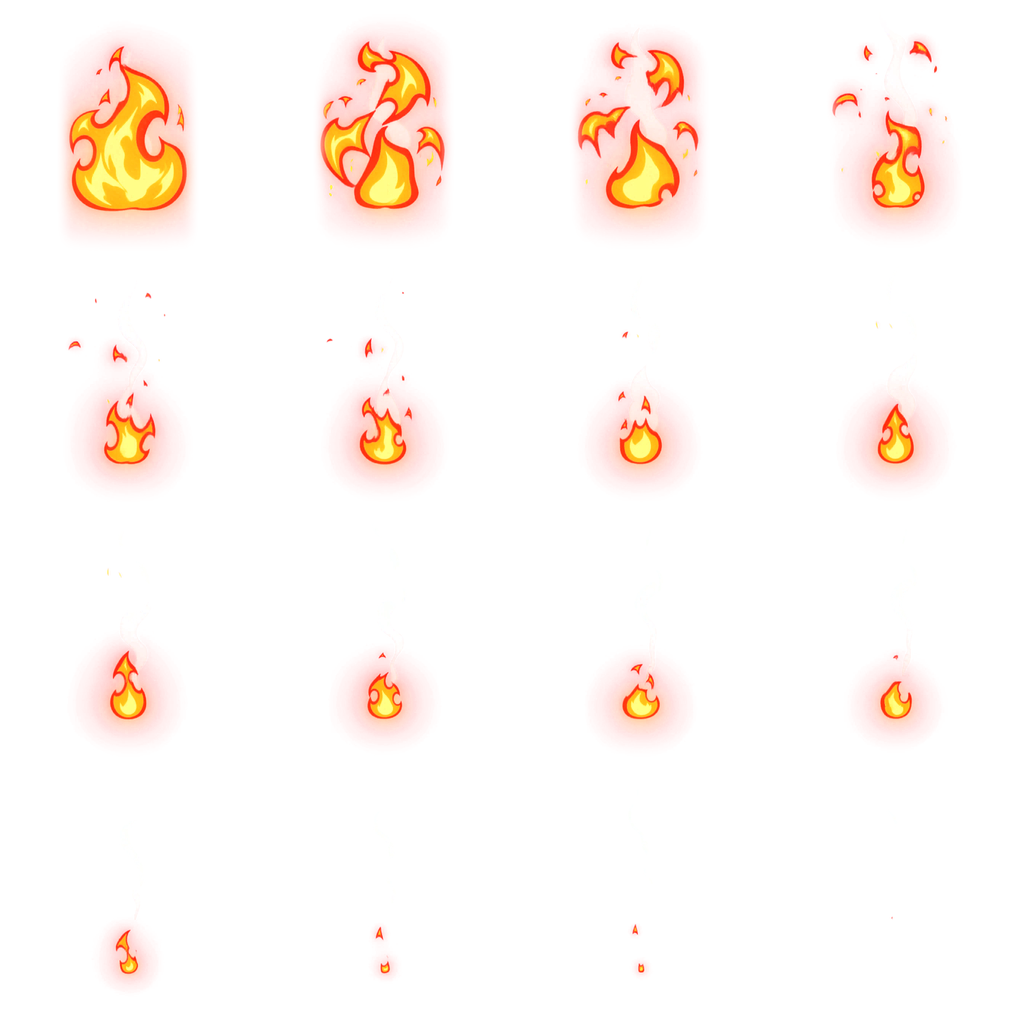
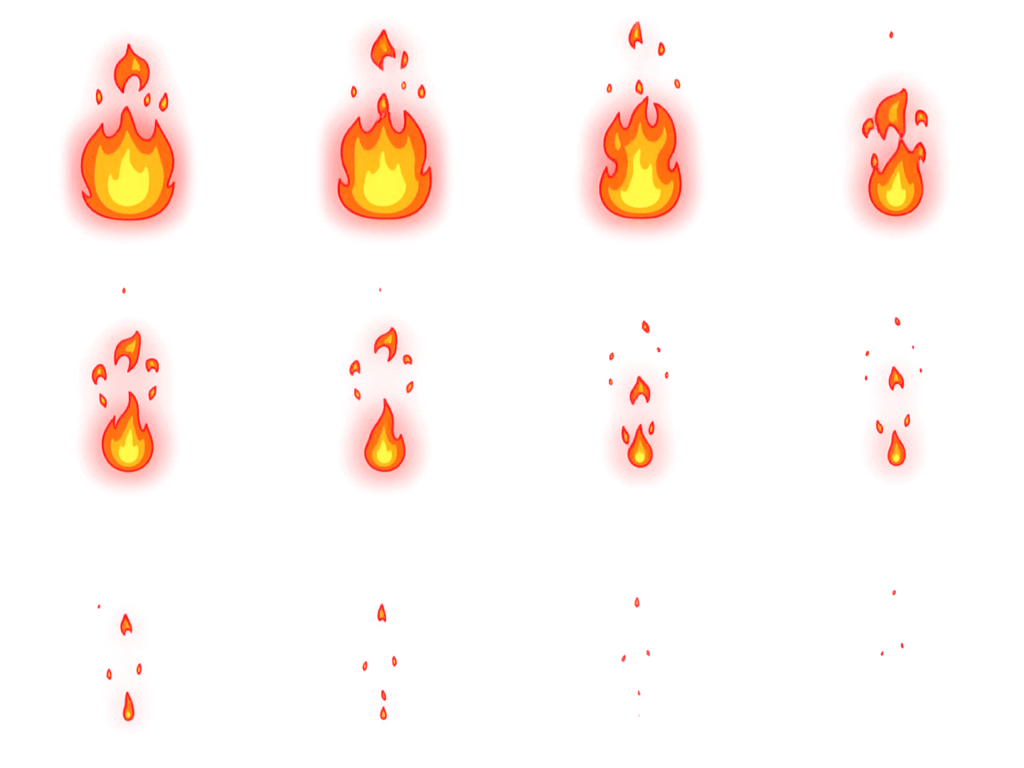
火法普攻特效收敛：小焰快消版 v2 + 管线工具化
- 反馈修正：屏上火焰 78→44px（重击96→58），去烟雾（重生成v2视频，prompt明确no smoke），
  消散 1.52s→0.62s（不再出现怪死后火焰原地烧）
- v2 视频：首帧占比 52%→34%，1s 时长；12格图集，锚点172/基准宽88
- 工具化：art_video_gen.py（提交/轮询/下载CLI，key走仓库外）+ AI视频特效工作流.md
  （首帧准备→提交→抽帧→引擎接入全流程与踩坑记录）+ prompts/

diff --git a/KingdomWatch/assets/scripts/battle/FireVFX.ts b/KingdomWatch/assets/scripts/battle/FireVFX.ts
@@ -24,10 +24,11 @@ const FLAME_TIME = [0, 0.018, 0.045, 0.10, 0.155, 0.210, 0.270, 0.320, 0.360];
 // 图生视频命中序列（fx/pyro_hit，16 格 256px）：快攻绽放 → 慢衰余焰烟雾，纯黑底 ADD 混合。
 const CLIP_CAP = 6;
 const PYRO_CELL = 256;
-const PYRO_CELS = 16;
-const PYRO_CEL_DUR = [0.05, 0.05, 0.05, 0.05, 0.075, 0.075, 0.075, 0.075, 0.105, 0.105, 0.105, 0.105, 0.15, 0.15, 0.15, 0.15];
-const PYRO_ANCHOR_Y = 157;  // 首格火焰亮度质心（格内坐标，自顶向下）
-const PYRO_FLAME_W = 116;   // 首格火焰宽度（决定格缩放 → 屏上火焰尺寸）
+// 每格时长：快攻绽放 → 慢衰消散；总和必须 < 普攻间隔，否则怪死了火还在原地烧
+const PYRO_CEL_DUR = [0.04, 0.04, 0.04, 0.04, 0.05, 0.05, 0.05, 0.05, 0.065, 0.065, 0.065, 0.065];
+const PYRO_CELS = PYRO_CEL_DUR.length;
+const PYRO_ANCHOR_Y = 172;  // 首格火焰亮度质心（格内坐标，自顶向下）
+const PYRO_FLAME_W = 88;    // 首格火焰宽度（决定格缩放 → 屏上火焰尺寸）
 const clamp = (v: number): number => Math.max(0, Math.min(1, v));
 const smooth = (v: number): number => { const t = clamp(v); return t * t * (3 - 2 * t); };
 
@@ -190,7 +191,7 @@ export class FireVFX {
     if (this.clipsActive.length >= CLIP_CAP) return true;
     const clip = this.clipFree.pop();
     if (!clip) return true;
-    const scale = (heavy ? 96 : 78) / PYRO_FLAME_W;
+    const scale = (heavy ? 58 : 44) / PYRO_FLAME_W;
     clip.age = 0; clip.scale = scale;
     clip.part.node.active = true;
     // 格内火焰质心在中心下方 (PYRO_ANCHOR_Y−CELL/2)px：把质心对到命中点，烟雾自然升到上方

diff --git a/美术/tools/art_video_gen.py b/美术/tools/art_video_gen.py
@@ -1,0 +1,126 @@
+# -*- coding: utf-8 -*-
+"""lens API 图生视频 CLI：提交 → 轮询 → 下载。
+
+key 安全：只从环境变量 LENSAPI_KEY 或仓库外文件读取
+（默认 C:/Users/user/.kw_secrets/lensapi_key.txt），绝不写入本仓库。
+
+用法：
+  提交新任务并等结果：
+    python art_video_gen.py --image https://kw-vfx-src.pages.dev/xx.png --prompt-file prompt.txt \
+        --seconds 1 --ratio 1:1 --out out.mp4
+  断点续查（连接断了/换会话）：
+    python art_video_gen.py --resume task_xxxx --out out.mp4
+
+返回码：0 成功；1 失败（任务 failed 或超时）。
+接口约定（2026-10 探测）：
+  POST /v1/videos  {model, prompt, seconds, aspect_ratio(别名ratio), images:[公网URL]}
+  GET  /v1/videos/{id} → status queued/in_progress/completed/failed, progress
+  completed 后 download_url 为签名直链（无需 key）。
+"""
+import argparse
+import json
+import os
+import sys
+import time
+import urllib.error
+import urllib.request
+
+API = 'https://lensapi.cn'
+KEY_FILE = 'C:/Users/user/.kw_secrets/lensapi_key.txt'
+
+
+def key():
+    k = os.environ.get('LENSAPI_KEY')
+    if k:
+        return k.strip()
+    with open(KEY_FILE, encoding='utf-8') as f:
+        return f.read().strip()
+
+
+def req(method, path, payload=None, raw=False, timeout=60):
+    r = urllib.request.Request(API + path, method=method,
+                               headers={'Authorization': 'Bearer ' + key(),
+                                        'Content-Type': 'application/json'})
+    data = None
+    if payload is not None:
+        data = json.dumps(payload).encode('utf-8')
+    try:
+        with urllib.request.urlopen(r, data=data, timeout=timeout) as resp:
+            b = resp.read()
+    except urllib.error.HTTPError as e:
+        b = e.read()
+    if raw:
+        return b
+    return json.loads(b.decode('utf-8'))
+
+
+def submit(args):
+    payload = {'model': args.model, 'seconds': args.seconds, 'ratio': args.ratio}
+    if args.prompt_file:
+        payload['prompt'] = open(args.prompt_file, encoding='utf-8').read().strip()
+    elif args.prompt:
+        payload['prompt'] = args.prompt
+    else:
+        sys.exit('--prompt 或 --prompt-file 必填')
+    if args.image:
+        # 公网 API 不收本地文件/DataURL：首帧需先部署到 美术/vfx_host 再传 URL
+        if args.image.startswith('http'):
+            payload['images'] = [args.image]
+        else:
+            sys.exit('本地图片需先部署到 美术/vfx_host（wrangler pages deploy）后传 URL')
+    d = req('POST', '/v1/videos', payload, timeout=90)
+    if 'error' in d:
+        print('submit error:', json.dumps(d, ensure_ascii=False))
+        return None
+    print('task:', d['id'], d['status'])
+    return d['id']
+
+
+def poll(task, out, max_min):
+    t0 = time.time()
+    while (time.time() - t0) < max_min * 60:
+        d = req('GET', '/v1/videos/' + task)
+        st = d.get('status'), d.get('progress')
+        print('[%s] %s' % (time.strftime('%H:%M:%S'), st), flush=True)
+        if st[0] == 'completed':
+            url = d.get('download_url')
+            if not url:
+                print('no download_url:', json.dumps(d, ensure_ascii=False)[:500])
+                return 1
+            if url.startswith(API):
+                raw = req('GET', url[len(API):], raw=True, timeout=180)
+            else:
+                raw = urllib.request.urlopen(url, timeout=180).read()
+            with open(out, 'wb') as f:
+                f.write(raw)
+            print('saved %s (%d bytes)' % (out, len(raw)))
+            return 0
+        if st[0] == 'failed':
+            print('FAILED:', json.dumps(d, ensure_ascii=False)[:800])
+            return 1
+        time.sleep(15)
+    print('timeout after %d min; 用 --resume %s 续查' % (max_min, task))
+    return 1
+
+
+def main():
+    ap = argparse.ArgumentParser()
+    ap.add_argument('--image', help='首帧图（公网 URL；本地文件先部署 vfx_host）')
+    ap.add_argument('--prompt', help='提示词文本')
+    ap.add_argument('--prompt-file', help='提示词文件（UTF-8）')
+    ap.add_argument('--model', default='lens-minimax-h3-768p')
+    ap.add_argument('--seconds', type=int, default=1)
+    ap.add_argument('--ratio', default='1:1')
+    ap.add_argument('--out', default='vfx_clip.mp4')
+    ap.add_argument('--resume', help='续查已有 task id')
+    ap.add_argument('--max-min', type=int, default=12, help='轮询超时(分钟)')
+    args = ap.parse_args()
+
+    task = args.resume or submit(args)
+    if not task:
+        return 1
+    return poll(task, args.out, args.max_min)
+
+
+if __name__ == '__main__':
+    sys.exit(main())

diff --git a/美术/tools/AI视频特效工作流.md b/美术/tools/AI视频特效工作流.md
@@ -1,0 +1,78 @@
+# AI 视频特效工作流（图生视频 → 序列帧图集 → 引擎播放）
+
+> 适用：一次性的流体/燃烧/电弧/寒雾类特效（非循环）。
+> 循环类（地面灼烧等）不用序列帧，用噪声滚动 shader。
+> 管线成本：MiniMax H3-768p ¥0.06/秒，1-2s 视频约 ¥0.06-0.12，2-3 分钟出片。
+
+## 0. 安全
+
+- lens API key 只存仓库外 `C:/Users/user/.kw_secrets/lensapi_key.txt`（0600），前缀见密钥文件名，绝不出现在任何入库文本。
+- 仓库 pre-commit 钩子自动拦截已知 key 前缀（含本 key），提交时自动把关。
+
+## 1. 首帧准备（决定成片质量的一半）
+
+1. 选一帧**现有风格锚点**（批次序列里最好的一格，或引擎内截帧放大），
+   目的：把画风钉死，避免视频模型自由发挥。
+2. 用 PIL 调整：`ImageEnhance.Color(0.80)` + `Brightness(0.92)` 压住 AI 鲜艳感。
+3. 裁到内容包围盒+6% 边距，居中铺到 **768×768 纯黑**（`alpha_composite` 到 `(0,0,0,255)`）。
+4. 火焰占画面宽度比例 = 成片里火焰的相对大小。普攻小焰用 **~34%**（首批 52% 出来偏大）。
+5. 存 `美术/vfx_host/<名>_ff.png`，部署：
+   ```bash
+   cd 美术/vfx_host && npx -y wrangler@4 pages deploy . --project-name kw-vfx-src --branch main --commit-dirty=true
+   ```
+   新子域首次部署要等 ~30s 传播，`curl` 到 200 再提交任务。
+
+## 2. 提交视频任务
+
+```bash
+python 美术/tools/art_video_gen.py \
+  --image https://kw-vfx-src.pages.dev/<名>_ff.png \
+  --prompt-file 美术/tools/prompts/<名>.txt \
+  --seconds 1 --ratio 1:1 --out 美术/原图/<批次>_<名>/clip.mp4
+```
+
+- `--seconds 1` 最短档；消散类特效 1s 足够（2s 会导致尾巴太长，游戏内怪物死了火还在烧）。
+- `ratio` 实测会被 H3 渠道忽略（1:1 返回 768×1344 竖幅），管线已兼容任意分辨率。
+- Prompt 要点（英文效果最好）：
+  - 手绘 cel 画风声明 + 塔防游戏 VFX 元素定位；
+  - **运动只描述"衰减过程"**（collapses inward / shrinks / dims / breaks into embers）；
+  - 负向明确列出：no smoke / no glow halo / no lens flare / no HDR sheen / no new objects /
+    camera locked / background stays pure solid black throughout / not vivid, not exaggerated；
+  - 调色板用"muted disciplined 4-color value design"句式（继承批次19风格词库）。
+
+## 3. 抽帧 → 图集
+
+```bash
+python 美术/tools/video2atlas.py --video clip.mp4 --prefix pyro_hit \
+  --outdir 美术/原图/<批次>_视频帧_日期 --cells 12 --size 256 --grid 4 \
+  --fps 12 --pedestal 9
+```
+
+工具内建四个关键修正（都是实踩过的坑，别关）：
+
+| 修正 | 原因 |
+|---|---|
+| `--pedestal 9` 黑场校正 | 编码器把纯黑抬亮 8-9，普通混合下露出取景方框 |
+| 裁切区边缘羽化 14% | 视频画幅边界把辉光硬切，ADD/alpha 混合下出现直边 |
+| 反预乘 alpha（alpha=最大通道） | 引擎是 alpha 混合非 ADD；此变换在数学上严格等价叠加 |
+| 联合包围盒统一取景 | 逐帧 bbox 会左右抖动 |
+
+审 `*_sheet.png`：确认无烟雾（不要的元素直接重新生成，别试图裁——烟雾贯穿整段时裁不掉）、
+无风格漂移、末帧近全黑。产出的 `<prefix>.png` + `<prefix>.frames` 拷入
+`KingdomWatch/assets/resources/fx/`（.frames 改名 `.frames.json`，Cocos 导入为 JsonAsset）。
+
+## 4. 引擎接入（FireVFX.ts）
+
+- 常量区：`PYRO_CEL_DUR`（每格秒数，快攻慢衰：绽放格 ~0.045、消散格 ~0.07）、
+  `PYRO_ANCHOR_Y`（首格火焰亮度质心，格内坐标自顶向下）、`PYRO_FLAME_W`（首格火焰宽度）。
+- `hitClip()`：`(heavy ? 58 : 44) / PYRO_FLAME_W` = 屏上火焰目标宽度 ÷ 格内火焰宽，
+  普攻 ~44px、重击 ~58px（怪物本体 ~46px，小焰不要盖过怪物）。
+- 锚点偏移：`(PYRO_ANCHOR_Y − PYRO_CELL/2) * scale`，让质心对准命中点、烟雾/上升物在上方。
+- ImpactFX.hit 里首选 `hitClip`，未就绪回退引擎火团（`fire.hit`），再回退矢量描边。
+- 总时长（ΣCEL_DUR）必须 < 普攻间隔（~0.8-1.2s），否则怪物死了火焰还在原地烧。
+
+## 5. 实测参考数据（2026-10-07 首批）
+
+- 任务：`POST /v1/videos` → queued(10%) → completed，全程 ~2.5 分钟。
+- 首帧格心质心 157/256（cell0），火焰宽 116/256；联包 768×1344 全幅（烟雾顶到画幅顶）。
+- 屏上效果：414px 视口下火焰 ~78px 偏大 → 收敛到 ~44px。
